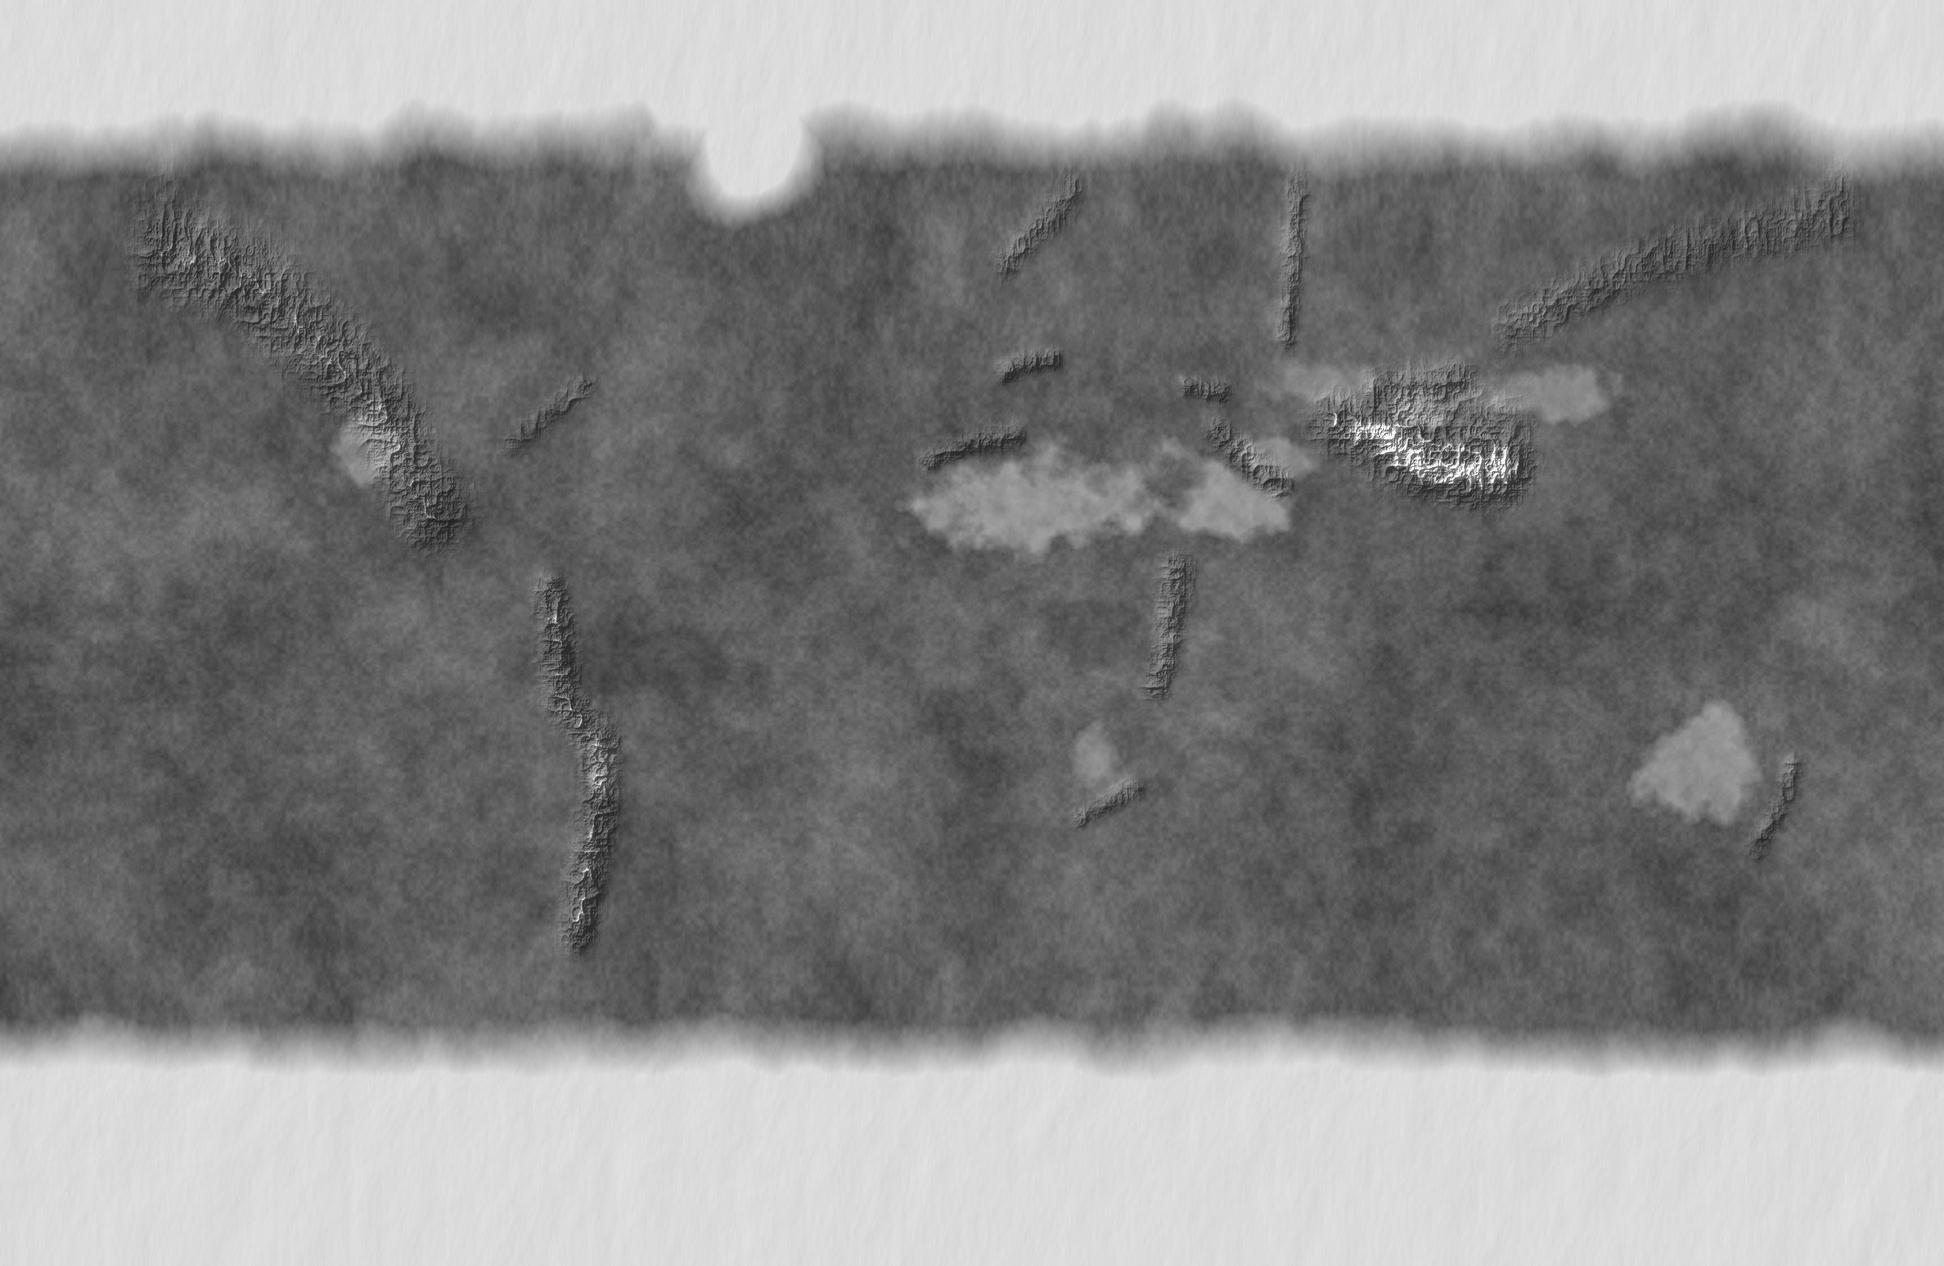
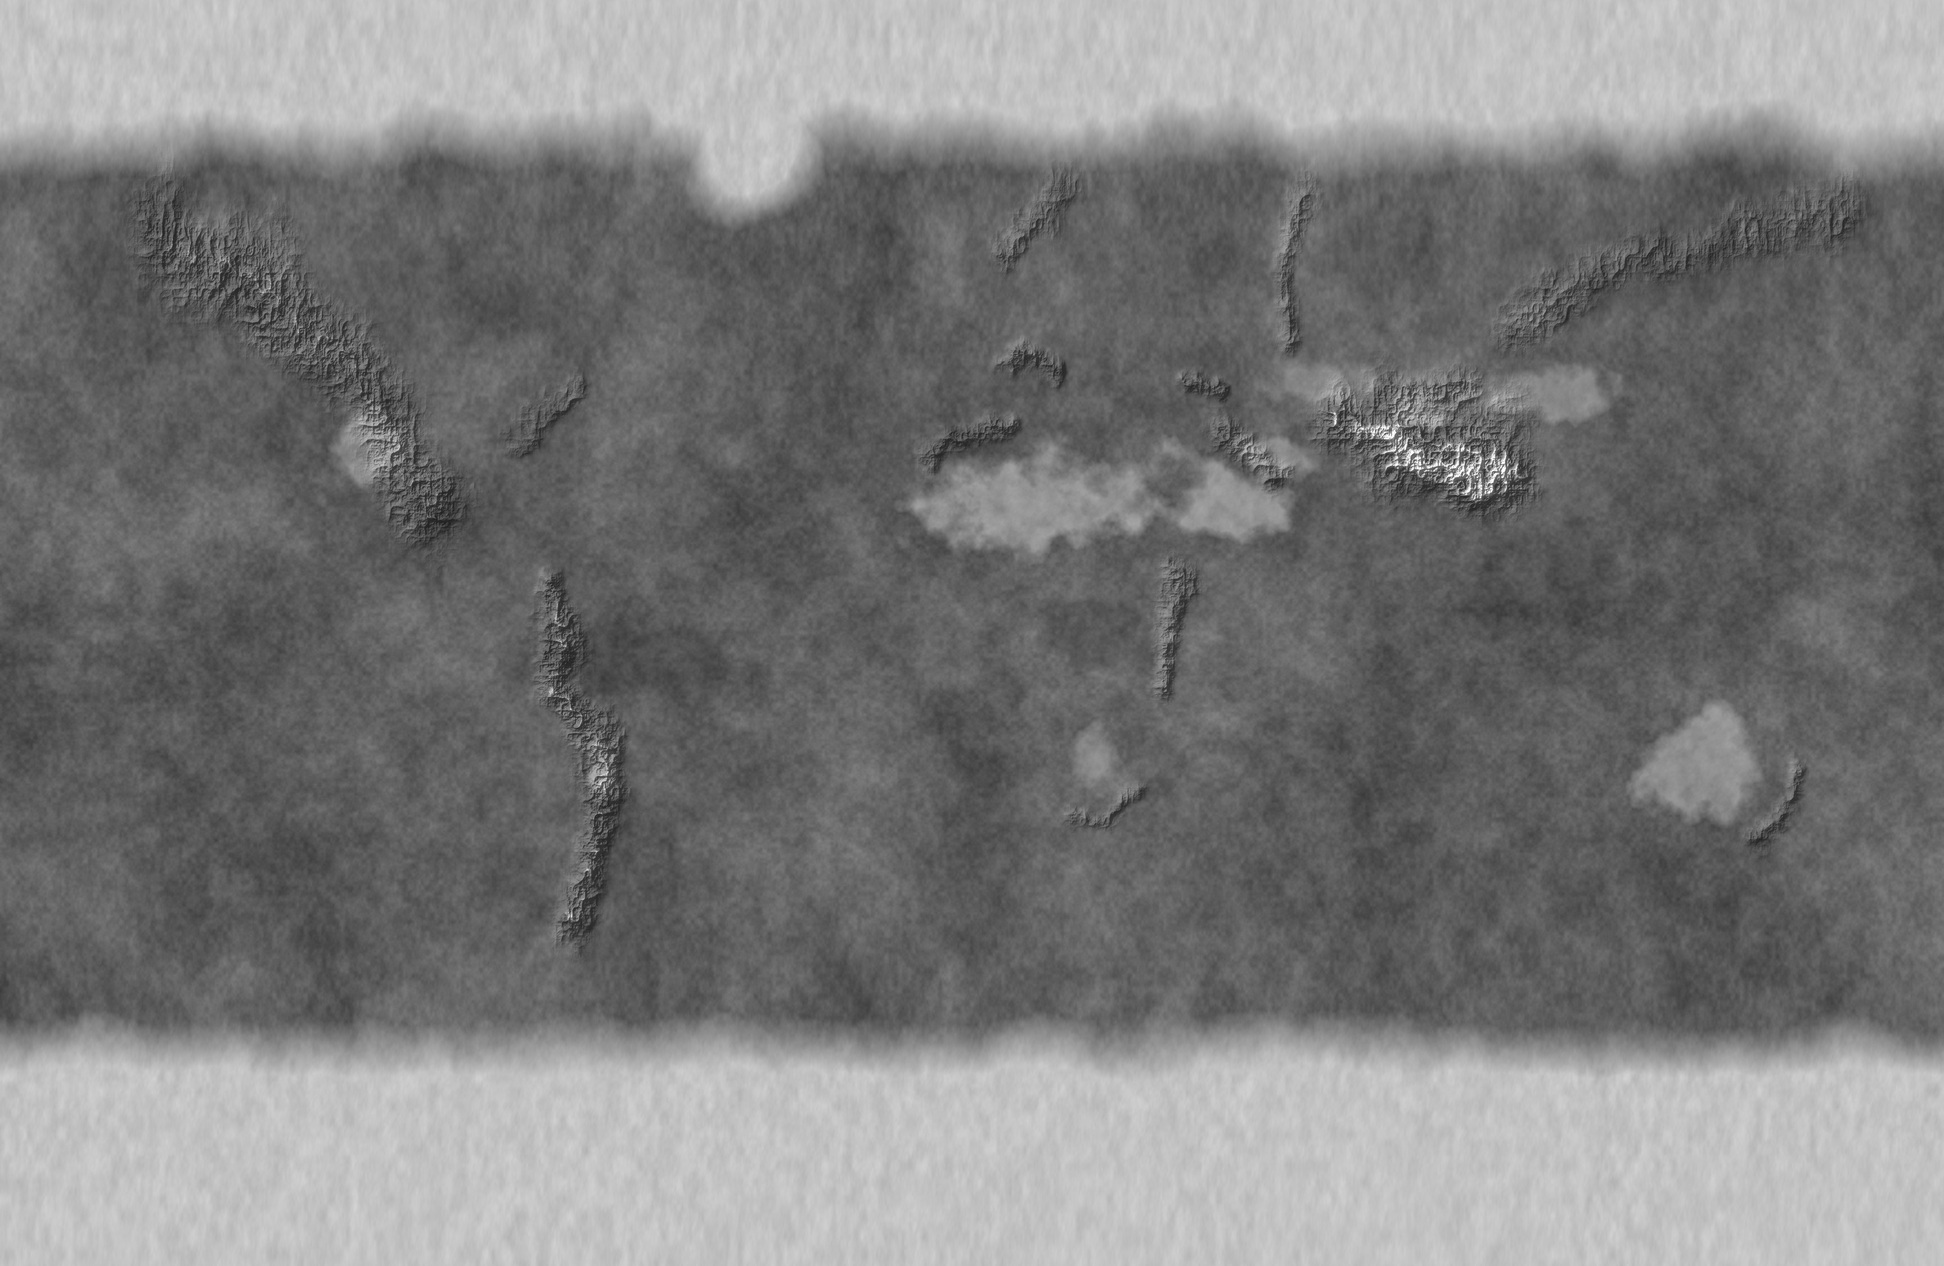
WorldTracking: apply QA review fixes (framing, beat timing, relief contrast, panel styling, finale, glitch-in)
Claude-Session: https://claude.ai/code/session_01D5eAzeygGp59oYigrUuiBk

diff --git a/hud-compositions/src/worldmap/Overlays.tsx b/hud-compositions/src/worldmap/Overlays.tsx
@@ -31,20 +31,20 @@ export const Chrome: React.FC<{ frame: number; pal: WorldPalette }> = ({ frame, 
       {/* Header labels */}
       <div style={{ opacity: p }}>
         <Label x={22} y={24} text="LOCATION" pal={pal} size={7} mono color={pal.dim} />
-        <Label x={22} y={33} text={scanLabel} pal={pal} size={15} weight={600} />
-        <ProgressLine x={22} y={52} w={66} p={1} pal={pal} />
+        <Label x={22} y={30} text={scanLabel} pal={pal} size={21} weight={600} color={pal.header} />
+        <ProgressLine x={22} y={54} w={90} p={1} pal={pal} />
       </div>
       <div style={{ opacity: p2 }}>
-        <Label x={108} y={33} text={posLabel} pal={pal} size={15} weight={600} />
-        <ProgressLine x={108} y={52} w={120} p={0.35} pal={pal} />
+        <Label x={128} y={30} text={posLabel} pal={pal} size={21} weight={600} color={pal.header} />
+        <ProgressLine x={128} y={54} w={170} p={0.35} pal={pal} />
         {/* Folder list */}
         <div style={{ position: "absolute", left: 22, top: 66 }}>
           <DataRows n={6} seed={40} frame={frame} pal={pal} icon len={12} lineH={13} />
         </div>
       </div>
       <div style={{ opacity: p }}>
-        <Label x={1890} y={20} text={searchLabel} pal={pal} size={15} weight={600} anchor="right" />
-        <ProgressLine x={1720} y={40} w={170} p={ramp(frame, W.panelsIn, W.alpha)} pal={pal} />
+        <Label x={1890} y={18} text={searchLabel} pal={pal} size={21} weight={600} anchor="right" color={pal.header} />
+        <ProgressLine x={1680} y={42} w={210} p={ramp(frame, W.panelsIn, W.alpha)} pal={pal} />
         <Label x={1890} y={46} text={`${Math.round(ramp(frame, W.panelsIn, W.alpha) * 100)}% / NODE 07`} pal={pal} size={7} mono color={pal.dim} anchor="right" />
       </div>
       {/* INFO */}
@@ -94,7 +94,7 @@ export const BootDialogs: React.FC<{ frame: number; pal: WorldPalette }> = ({ fr
   const loadP = ramp(frame, W.loadingIn, W.loadingDone);
   const loading = flickerIn(frame, W.loadingIn, 5) * (1 - ramp(frame, W.loadingDone + 2, W.loadingDone + 6));
   const search = ramp(frame, W.searchIn, W.searchIn + 6, easeOut) * (1 - ramp(frame, W.searchOut - 4, W.searchOut));
-  const query = typed("OBJ-96-BETA", frame, W.searchType, 9);
+  const query = typed("OBJ-96-BETA", frame, W.searchType, 14);
   const caret = Math.floor(frame / 8) % 2 ? "▌" : " ";
   const field = (x: number, y: number, w: number, text: string, active: boolean) => (
     <div
@@ -119,7 +119,7 @@ export const BootDialogs: React.FC<{ frame: number; pal: WorldPalette }> = ({ fr
   return (
     <>
       {auth > 0 ? (
-        <div style={{ position: "absolute", left: 700, top: 395, width: 520, height: 170, opacity: auth, transform: `scaleY(${0.3 + 0.7 * auth})` }}>
+        <div style={{ position: "absolute", left: 700, top: 395, width: 520, height: 170, opacity: auth, transform: `scale(1.25, ${1.25 * (0.3 + 0.7 * auth)})` }}>
           <Panel x={0} y={0} w={520} h={170} title="" pal={pal} opacity={1}>
             <Label x={260} y={6} text="AUTHENTICATION PROTOCOL" pal={pal} size={14} weight={600} anchor="center" />
             <Label x={260} y={26} text="USER ACCESS LEVEL 4 REQUIRED" pal={pal} size={7} mono color={pal.dim} anchor="center" />
@@ -167,7 +167,7 @@ export const BootDialogs: React.FC<{ frame: number; pal: WorldPalette }> = ({ fr
         </div>
       ) : null}
       {search > 0 ? (
-        <div style={{ position: "absolute", left: 690, top: 488, width: 540, height: 88, opacity: search, transform: `scaleY(${0.3 + 0.7 * search})` }}>
+        <div style={{ position: "absolute", left: 690, top: 488, width: 540, height: 88, opacity: search, transform: `scale(1.25, ${1.25 * (0.3 + 0.7 * search)})` }}>
           <Panel x={0} y={0} w={540} h={88} title="SEARCH REQUEST" pal={pal} opacity={1}>
             <Label x={270} y={4} text="INSERT OBJECT DESIGNATION" pal={pal} size={7} mono color={pal.dim} anchor="center" />
             {field(14, 22, 380, query + caret, true)}
@@ -296,7 +296,12 @@ export const SearchFrame: React.FC<{ frame: number; cam: MapCamera; pal: WorldPa
                         const r = rng(Math.floor((frame - W.gridScan) / 6) * 31 + i);
                         const gx = FOCUS.x + 40 * Math.floor(10 + r() * 14);
                         const gy = FOCUS.y + 40 * Math.floor(4 + r() * 8);
-                        return <rect key={i} x={gx} y={gy} width={40} height={40} fill={pal.accentSoft} stroke={pal.accent} strokeWidth={0.8} />;
+                        return (
+                          <g key={i}>
+                            <rect x={gx} y={gy} width={40} height={40} fill="none" stroke={pal.accent} strokeWidth={0.8} opacity={0.7} />
+                            <circle cx={gx + 20} cy={gy + 20} r={2.5} fill={pal.accent} />
+                          </g>
+                        );
                       })
                     : null}
                 </g>
@@ -312,14 +317,30 @@ export const SearchFrame: React.FC<{ frame: number; cam: MapCamera; pal: WorldPa
               {alpha ? (
                 <g opacity={alphaIn}>
                   {/* Red Sea corridor and target */}
-                  <path d={`M${P(32.5, 31).x} ${P(32.5, 31).y}L${P(33.8, 27.8).x} ${P(33.8, 27.8).y}L${P(36, 24).x} ${P(36, 24).y}L${P(38.5, 19).x} ${P(38.5, 19).y}`} stroke={pal.accent} strokeWidth={2.5} fill="none" />
                   <path d={`M${tgt.x} ${tgt.y - 9}L${tgt.x + 8} ${tgt.y + 6}L${tgt.x - 8} ${tgt.y + 6}Z`} fill={pal.accent} />
-                  <g transform={`translate(${cairo.x + 14} ${cairo.y - 10})`}>
-                    <rect width={46} height={14} fill="rgba(0,0,0,0.35)" stroke={pal.text} strokeWidth={0.8} />
-                    <text x={23} y={10.5} textAnchor="middle" fontFamily={FONT_LABEL} fontSize={9} fill={pal.text} letterSpacing={1}>
+                  <line x1={cairo.x} y1={cairo.y} x2={cairo.x + 30} y2={cairo.y - 16} stroke={pal.text} strokeWidth={1} />
+                  <circle cx={cairo.x} cy={cairo.y} r={3} fill={pal.text} />
+                  <g transform={`translate(${cairo.x + 30} ${cairo.y - 30})`}>
+                    <rect width={84} height={24} fill="rgba(0,0,0,0.45)" stroke={pal.text} strokeWidth={1.2} />
+                    <text x={42} y={17} textAnchor="middle" fontFamily={FONT_LABEL} fontWeight={600} fontSize={15} fill={pal.text} letterSpacing={2}>
                       CAIRO
                     </text>
                   </g>
+                  {/* Grid box over North Africa with status triangles */}
+                  <rect x={P(-2, 33).x} y={P(-2, 33).y} width={P(26, 18).x - P(-2, 33).x} height={P(26, 18).y - P(-2, 33).y} fill="none" stroke={pal.accent} strokeWidth={1} strokeDasharray="5 4" />
+                  {[
+                    [8, 28],
+                    [18, 22],
+                    [24, 30],
+                  ].map(([lo, la], i) => {
+                    const q = P(lo, la);
+                    return (
+                      <g key={i} transform={`translate(${q.x} ${q.y})`}>
+                        <path d="M0 -6L6 5H-6Z" fill={pal.accent} />
+                        <text x={10} y={4} fontFamily={FONT_MONO} fontSize={8} fill={pal.text}>STATUS {i + 3}</text>
+                      </g>
+                    );
+                  })}
                   {[
                     ["LIBYA SECTOR", 17, 26],
                     ["SUDAN SECTOR", 29, 15],
@@ -352,8 +373,8 @@ export const SearchFrame: React.FC<{ frame: number; cam: MapCamera; pal: WorldPa
           <Label x={FOCUS.x + 12} y={FOCUS.y + 10} text={alpha ? "SEARCH COMPLETE" : "SEARCH IN PROGRESS"} pal={pal} size={13} weight={600} opacity={alpha ? 0.45 : 1} />
           {alpha ? (
             <>
-              <Label x={FOCUS.x + 180} y={FOCUS.y + 12} text="TARGET IDENTIFIED // PRIORITY ONE" pal={pal} size={7} mono color={pal.accent} opacity={alphaIn} />
-              <Label x={FOCUS.x + 180} y={FOCUS.y + 22} text="ALPHA PROTOCOL INITIALIZATION" pal={pal} size={15} weight={600} color={pal.accent} opacity={alphaIn} />
+              <Label x={FOCUS.x + 180} y={FOCUS.y + 10} text="TARGET IDENTIFIED" pal={pal} size={9} weight={600} color={pal.accent} opacity={alphaIn} spacing={1.5} />
+              <Label x={FOCUS.x + 180} y={FOCUS.y + 22} text="ALPHA PROTOCOL INITIALIZATION" pal={pal} size={17} weight={600} color={pal.text} opacity={alphaIn} />
             </>
           ) : null}
           <Label x={FOCUS.x + FOCUS.w - 120} y={FOCUS.y + 10} text={scramble(cn, 1)} pal={pal} size={14} weight={600} anchor="right" />
@@ -415,18 +436,46 @@ export const SearchFrame: React.FC<{ frame: number; cam: MapCamera; pal: WorldPa
 
 /** Procedural street network "satellite extraction" (draws on over time). */
 const NET = (() => {
+  // Dense radial city: arterials from the centre, ring roads, then a mesh
+  // of short local streets.
   const r = rng(4242);
+  const cx = 172;
+  const cy = 83;
   const lines: string[] = [];
-  for (let i = 0; i < 70; i++) {
-    let x = r() * 340;
-    let y = r() * 160;
-    let a = r() * Math.PI * 2;
+  for (let i = 0; i < 22; i++) {
+    let a = (i / 22) * Math.PI * 2 + r() * 0.2;
+    let x = cx;
+    let y = cy;
+    let d = `M${x} ${y}`;
+    for (let s = 0; s < 26; s++) {
+      a += (r() - 0.5) * 0.18;
+      x += Math.cos(a) * 8;
+      y += Math.sin(a) * 8;
+      d += `L${x.toFixed(1)} ${y.toFixed(1)}`;
+    }
+    lines.push(d);
+  }
+  for (let k = 1; k <= 7; k++) {
+    const rad = k * 22 + r() * 6;
+    let d = "";
+    for (let s = 0; s <= 48; s++) {
+      const a = (s / 48) * Math.PI * 2;
+      const rr = rad * (1 + 0.08 * Math.sin(a * 3 + k));
+      d += `${s ? "L" : "M"}${(cx + Math.cos(a) * rr).toFixed(1)} ${(cy + Math.sin(a) * rr * 0.8).toFixed(1)}`;
+    }
+    lines.push(d);
+  }
+  for (let i = 0; i < 260; i++) {
+    const a = r() * Math.PI * 2;
+    const rad = Math.pow(r(), 0.7) * 170;
+    let x = cx + Math.cos(a) * rad;
+    let y = cy + Math.sin(a) * rad * 0.8;
+    let h = r() * Math.PI * 2;
     let d = `M${x.toFixed(1)} ${y.toFixed(1)}`;
-    const steps = 6 + Math.floor(r() * 18);
-    for (let s = 0; s < steps; s++) {
-      a += (r() - 0.5) * 0.5;
-      x += Math.cos(a) * 9;
-      y += Math.sin(a) * 9;
+    for (let s = 0; s < 3 + Math.floor(r() * 4); s++) {
+      h += (r() < 0.5 ? 1 : -1) * Math.PI * 0.5 * (r() < 0.6 ? 1 : 0);
+      x += Math.cos(h) * 9;
+      y += Math.sin(h) * 9;
       d += `L${x.toFixed(1)} ${y.toFixed(1)}`;
     }
     lines.push(d);
@@ -443,7 +492,7 @@ const StreetNet: React.FC<{ frame: number; pal: WorldPalette }> = ({ frame, pal 
           key={i}
           d={d}
           stroke={pal.text}
-          strokeWidth={i % 7 === 0 ? 1.6 : 0.7}
+          strokeWidth={i < 22 ? 1.4 : i < 29 ? 1.0 : 0.5}
           fill="none"
           opacity={0.55 + 0.4 * hash(i)}
           pathLength={1}

diff --git a/hud-compositions/src/worldmap/MapCanvas.tsx b/hud-compositions/src/worldmap/MapCanvas.tsx
@@ -51,7 +51,8 @@ const getTextures = (pal: WorldPalette, relief: ImageData) => {
   const img = tctx.createImageData(relief.width, relief.height);
   const n = relief.width * relief.height;
   for (let i = 0; i < n; i++) {
-    const l = relief.data[i * 4] / 255;
+    const l0 = relief.data[i * 4] / 255;
+    const l = Math.min(1, Math.max(0, 0.5 + (l0 - 0.45) * 1.45));
     img.data[i * 4] = pal.landLo[0] + (pal.landHi[0] - pal.landLo[0]) * l;
     img.data[i * 4 + 1] = pal.landLo[1] + (pal.landHi[1] - pal.landLo[1]) * l;
     img.data[i * 4 + 2] = pal.landLo[2] + (pal.landHi[2] - pal.landLo[2]) * l;
@@ -240,17 +241,31 @@ export const MapCanvas: React.FC<{
       }
       ctx.globalAlpha = 1;
     }
-    // Opening glitch: black out random horizontal bands.
+    // Opening glitch: the frame starts mostly black with fragmented,
+    // horizontally offset and repeated slices of the map that resolve.
     if (look.reveal < 1) {
+      scratch.width = bw;
+      scratch.height = bh;
+      const sctx = scratch.getContext("2d")!;
+      sctx.setTransform(1, 0, 0, 1, 0, 0);
+      sctx.globalAlpha = 1;
+      sctx.globalCompositeOperation = "copy";
+      sctx.drawImage(ref.current!, 0, 0);
       ctx.setTransform(1, 0, 0, 1, 0, 0);
+      ctx.globalAlpha = 1;
+      ctx.globalCompositeOperation = "source-over";
       ctx.fillStyle = "#000";
-      const bands = 18;
+      ctx.fillRect(0, 0, bw, bh);
+      const bands = 24;
       for (let i = 0; i < bands; i++) {
         const r = Math.abs(Math.sin((i + 1) * 91.7 + look.revealSeed * 13.1)) % 1;
-        if (r > look.reveal) {
-          const y0 = (i / bands) * bh;
-          const xoff = (Math.sin(i * 7.3 + look.revealSeed) * 0.5 + 0.5) * bw * (1 - look.reveal);
-          ctx.fillRect(look.reveal > 0.5 ? xoff : 0, y0, bw, bh / bands + 1);
+        const y0 = Math.floor((i / bands) * bh);
+        const hgt = Math.ceil(bh / bands) + 1;
+        if (r < look.reveal * 1.25) {
+          const settled = r < look.reveal * 0.7;
+          const xoff = settled ? 0 : Math.round((Math.sin(i * 7.3 + look.revealSeed) * 0.5) * bw * 0.35);
+          ctx.drawImage(scratch, 0, y0, bw, hgt, xoff, y0, bw, hgt);
+          if (xoff !== 0) ctx.drawImage(scratch, 0, y0, bw, hgt, xoff - Math.sign(xoff) * bw, y0, bw, hgt);
         }
       }
     }

diff --git a/hud-compositions/src/worldmap/timeline.ts b/hud-compositions/src/worldmap/timeline.ts
@@ -8,33 +8,33 @@ export const W = {
   authUser: 22,
   authPass: 34,
   authButton: 50,
-  authOut: 60, // 2.0 s
-  panelsIn: 60, // 2.0 s side panels flicker on
-  loadingIn: 62, // INTERFACE LOADING bar
+  authOut: 57, // 1.9 s
+  panelsIn: 57, // 1.9 s side panels flicker on
+  loadingIn: 58, // INTERFACE LOADING bar
   loadingDone: 116,
   decodeIn: 70,
   searchIn: 122, // 4.1 s SEARCH REQUEST dialog
-  searchType: 132,
-  searchOut: 180, // 6.0 s
-  objLabel: 182,
-  brighten: 196, // 6.5 s land highlight
-  zoomNA: [208, 226], // 6.9-7.5 s dive into North America
-  frameIn: 226,
-  whipAsia: [300, 318], // 10.0-10.6 s
+  searchType: 128,
+  searchOut: 195, // 6.5 s
+  objLabel: 197,
+  brighten: 206, // 6.9 s land highlight
+  zoomNA: [222, 232], // 7.4-7.7 s dive into North America
+  frameIn: 232,
+  whipAsia: [321, 333], // 10.7-11.1 s
   whipAfrica: [404, 418], // 13.5-13.9 s
   targetMarks: 430,
   gridScan: 452,
   alpha: 510, // 17.0 s ALPHA PROTOCOL INITIALIZATION
-  targetData: 526, // 17.5 s TARGET DATA panel
+  targetData: 518, // 17.3 s TARGET DATA panel
 } as const;
 
 const WORLD: MapCamera = { lon: 8, lat: 8, k: 1.0 };
-const NA: MapCamera = { lon: -96, lat: 49, k: 2.15 };
-const NA2: MapCamera = { lon: -93, lat: 48, k: 2.22 };
-const ASIA: MapCamera = { lon: 96, lat: 50, k: 2.3 };
-const ASIA2: MapCamera = { lon: 100, lat: 49, k: 2.36 };
-const AFR: MapCamera = { lon: 38, lat: 21, k: 2.5 };
-const AFR2: MapCamera = { lon: 39, lat: 22, k: 2.62 };
+const NA: MapCamera = { lon: -86, lat: 42, k: 1.62 };
+const NA2: MapCamera = { lon: -84, lat: 42, k: 1.68 };
+const ASIA: MapCamera = { lon: 78, lat: 47, k: 1.75 };
+const ASIA2: MapCamera = { lon: 81, lat: 47, k: 1.8 };
+const AFR: MapCamera = { lon: 25, lat: 15, k: 1.7 };
+const AFR2: MapCamera = { lon: 26, lat: 16, k: 1.78 };
 
 const mix = (a: MapCamera, b: MapCamera, t: number, dip = 0): MapCamera => ({
   lon: lerp(a.lon, b.lon, t),

diff --git a/hud-compositions/src/worldmap/palette.ts b/hud-compositions/src/worldmap/palette.ts
@@ -10,6 +10,8 @@ export type WorldPalette = {
   accent: string; // alerts, targets
   accentSoft: string;
   panel: string;
+  panelHeader: string;
+  header: string; // large section headers
   panelEdge: string;
   highlight: string; // selection bars, progress
 };
@@ -17,7 +19,7 @@ export type WorldPalette = {
 /** Reference: graphite map, cool grey land, red alerts. */
 export const WORLD_REFERENCE: WorldPalette = {
   ocean: ["#0b0f10", "#161c1d"],
-  landLo: [30, 36, 38],
+  landLo: [18, 22, 24],
   landHi: [228, 234, 234],
   coast: "rgba(220,230,230,0.35)",
   grid: "rgba(150,170,170,0.10)",
@@ -25,7 +27,9 @@ export const WORLD_REFERENCE: WorldPalette = {
   dim: "rgba(205,215,215,0.55)",
   accent: "#e0383e",
   accentSoft: "rgba(224,56,62,0.35)",
-  panel: "rgba(26,30,32,0.82)",
+  panel: "rgba(38,41,43,0.86)",
+  panelHeader: "rgba(78,84,86,0.9)",
+  header: "#bcd8ac",
   panelEdge: "rgba(160,175,175,0.35)",
   highlight: "#d9e2e2",
 };
@@ -33,15 +37,17 @@ export const WORLD_REFERENCE: WorldPalette = {
 /** Alternative: deep-navy holographic grade with cyan land and amber alerts. */
 export const WORLD_ALTERNATE: WorldPalette = {
   ocean: ["#020a18", "#06162c"],
-  landLo: [8, 34, 60],
-  landHi: [150, 232, 255],
+  landLo: [2, 16, 34],
+  landHi: [175, 240, 255],
   coast: "rgba(120,220,255,0.55)",
   grid: "rgba(80,170,255,0.14)",
   text: "#c9f1ff",
   dim: "rgba(140,210,240,0.6)",
   accent: "#ff9a2e",
   accentSoft: "rgba(255,154,46,0.35)",
-  panel: "rgba(4,22,44,0.82)",
+  panel: "rgba(4,24,48,0.86)",
+  panelHeader: "rgba(20,70,110,0.9)",
+  header: "#8fe9ff",
   panelEdge: "rgba(90,190,255,0.45)",
   highlight: "#7fe3ff",
 };

diff --git a/hud-compositions/src/worldmap/texture.ts b/hud-compositions/src/worldmap/texture.ts
@@ -135,12 +135,15 @@ export const buildLandTexture = (w = 2048): LandTexture => {
       const edge = (n1 - 0.5) * 0.8;
       // Elevation from mountain belts.
       let e = 0.08 * fbm(lon * 0.15 + 3, lat * 0.15, 5);
+      // Domain-warp ridge lines so ranges meander instead of reading as seams.
+      const wlon = lon + (fbm(lon * 0.12, lat * 0.12 + 7, 4) - 0.5) * 7;
+      const wlat = lat + (fbm(lon * 0.12 + 3, lat * 0.12, 4) - 0.5) * 7;
       for (const r of RANGES) {
         let d = 1e9;
         for (let k = 0; k < r.pts.length - 1; k++) {
           const a = r.pts[k];
           const b = r.pts[k + 1];
-          d = Math.min(d, segDist(lon, lat, a[0], a[1], b[0], b[1]));
+          d = Math.min(d, segDist(wlon, wlat, a[0], a[1], b[0], b[1]));
         }
         const ww = r.w * (0.7 + 0.6 * n1);
         if (d < ww * 2.5) {
@@ -160,7 +163,7 @@ export const buildLandTexture = (w = 2048): LandTexture => {
       const greenland = blob(lon, lat, { c: [-41, 74], r: [13, 9], v: 1 }, edge * 0.5);
       const polar = Math.max(0, Math.min(1, (Math.abs(lat) - (lat > 0 ? 70 : 62)) / 6 + edge));
       const snow = Math.max(greenland, polar, Math.max(0, Math.min(1, (e - 0.85) * 3)));
-      a = a + (0.97 - a) * snow;
+      a = a + (0.86 - a) * snow * (0.85 + 0.3 * fbm(lon * 0.7, lat * 0.7, 4));
       elev[j * w + i] = e;
       alb[j * w + i] = a;
     }

diff --git a/hud-compositions/src/worldmap/ui.tsx b/hud-compositions/src/worldmap/ui.tsx
@@ -35,6 +35,7 @@ export const Panel: React.FC<{
       opacity,
       background: pal.panel,
       border: `1px solid ${pal.panelEdge}`,
+      borderTop: `3px solid ${pal.panelEdge}`,
       boxShadow: "0 0 18px rgba(0,0,0,0.45)",
       overflow: "hidden",
     }}
@@ -42,6 +43,7 @@ export const Panel: React.FC<{
     <div
       style={{
         height: 18,
+        background: pal.panelHeader,
         borderBottom: `1px solid ${pal.panelEdge}`,
         display: "flex",
         alignItems: "center",
